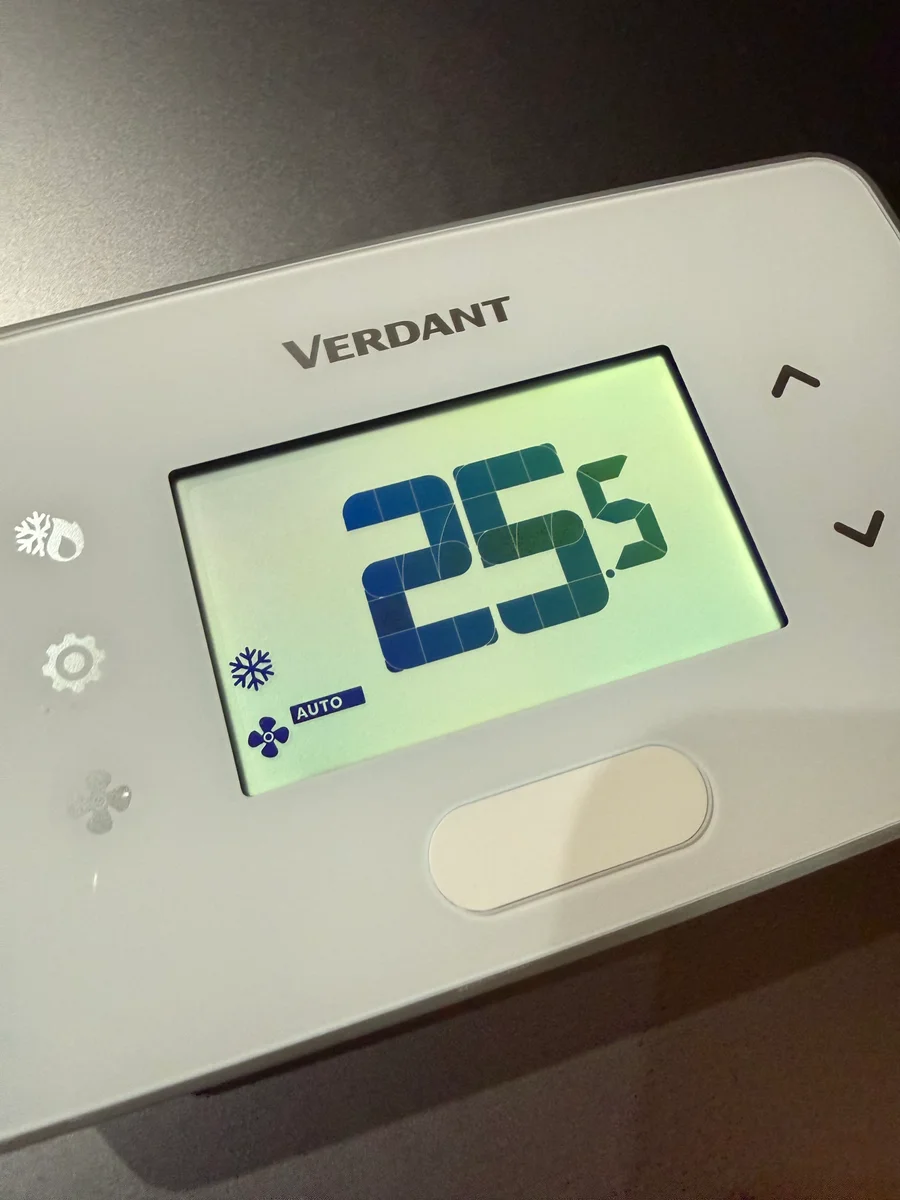
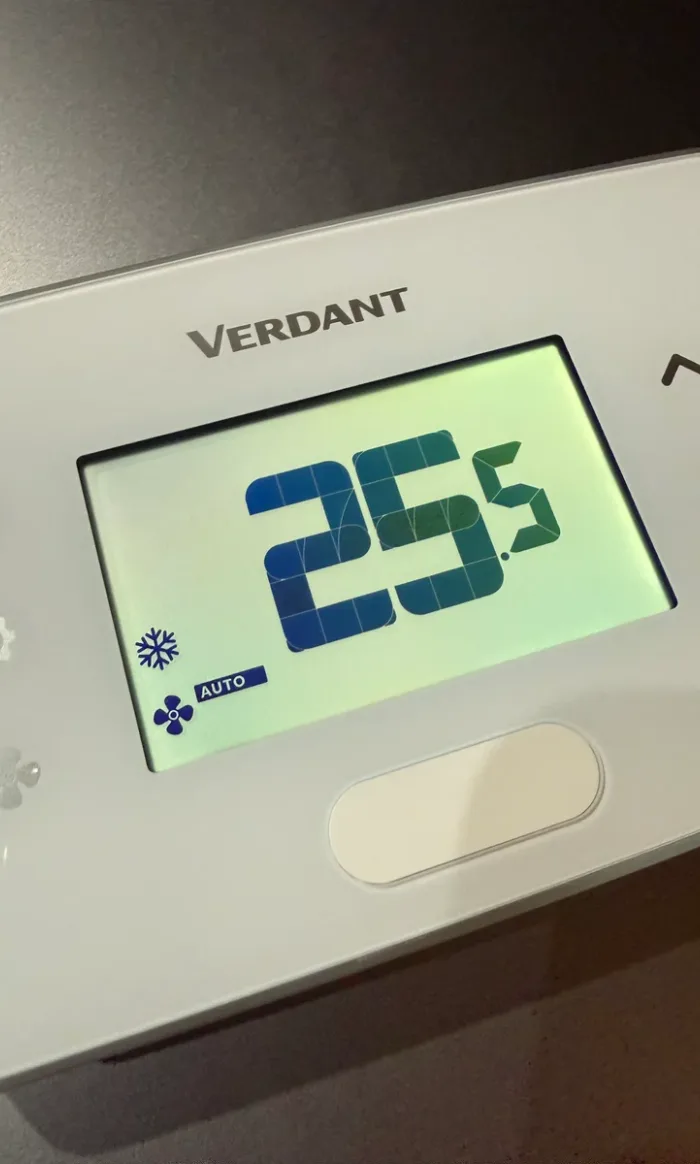
fix(verdant): crop view photos to segment display frame
Sketch, Prototype, and Product previews now use 350:582 assets matching
the character glyph frame. Photos fill the stage with object-fit cover
instead of letterboxing inside the segment aspect slot.

diff --git a/styles/verdant-interactive.css b/styles/verdant-interactive.css
@@ -100,13 +100,10 @@
 
 .verdant-interactive__stage-photo {
   display: block;
-  width: auto;
-  height: auto;
-  max-width: 100%;
-  max-height: 100%;
-  object-fit: contain;
-  object-position: center;
-  border-radius: var(--verdant-stage-radius);
+  width: 100%;
+  height: 100%;
+  object-fit: cover;
+  object-position: var(--verdant-photo-position, center);
 }
 
 /* Split layout when the interactive is wide enough (desktop stage or wide container) */
@@ -214,13 +211,6 @@
     width: var(--verdant-stage-w);
     height: var(--verdant-stage-h);
     aspect-ratio: auto;
-  }
-
-  .verdant-interactive__stage-photo {
-    max-width: 112%;
-    max-height: 112%;
-    transform: scale(1.06);
-    transform-origin: center center;
   }
 
   .verdant-selector {

diff --git a/components/VerdantPreviewStage.tsx b/components/VerdantPreviewStage.tsx
@@ -7,6 +7,7 @@ import {
   verdantViewToggle,
   type VerdantSelection,
 } from '@/lib/verdant/characterSelector'
+import type { CSSProperties } from 'react'
 
 type Props = {
   selection: VerdantSelection
@@ -17,12 +18,19 @@ export function VerdantPreviewStage({ selection }: Props) {
   const view =
     selection.kind === 'character' ? null : verdantViewToggle(selection.kind)
 
+  const photoStyle = view
+    ? ({
+        '--verdant-photo-position': view.objectPosition,
+      } as CSSProperties)
+    : undefined
+
   return (
     <div
       className="verdant-interactive__glyph-stage"
       aria-live="polite"
       aria-label={stageAriaLabel(selection)}
       data-preview={kind}
+      style={photoStyle}
     >
       {selection.kind === 'character' ? (
         <VerdantCharacterSvg

diff --git a/lib/verdant/characterSelector.ts b/lib/verdant/characterSelector.ts
@@ -72,26 +72,30 @@ export const VERDANT_VIEW_TOGGLES = [
   {
     kind: 'sketch',
     label: 'Sketch',
-    src: '/images/Segment_Drawing.jpeg',
+    src: '/images/verdant-sketch-frame.webp',
     alt: 'Verdant custom segment character set sketch',
+    objectPosition: 'center',
   },
   {
     kind: 'prototype',
     label: 'Prototype',
-    src: '/images/hw-verdant.jpg',
+    src: '/images/verdant-prototype-frame.webp',
     alt: 'Verdant segment display on PCB prototype',
+    objectPosition: 'center',
   },
   {
     kind: 'product',
     label: 'Product',
     src: '/images/verdant-product.webp',
     alt: 'Finished Verdant thermostat product',
+    objectPosition: 'center',
   },
 ] as const satisfies ReadonlyArray<{
   kind: VerdantViewKind
   label: string
   src: string
   alt: string
+  objectPosition: string
 }>
 
 export const VERDANT_DEFAULT_SELECTION: VerdantSelection = {

diff --git a/docs/HARDWARE_POLISH_CHECKLIST.md b/docs/HARDWARE_POLISH_CHECKLIST.md
@@ -64,7 +64,7 @@ Use this when auditing **Hardware** first, then copy pass/fail notes to Mobile, 
 - [x] Keyboard + character SVG (flex-wrap keypad; themed segment cache)
 - [x] Dark mode character/theme colors (`--verdant-label` on `.chapter-slide--verdant`)
 - [x] Container queries at 400px split / 340px & 399px stage scale (verify in browser)
-- [x] Sketch/Prototype photos in segment-aspect frame; assets `Segment_Drawing.jpeg`, `hw-verdant.jpg`
+- [x] Sketch/Prototype/Product photos in segment-aspect frame (350:582); framed assets `verdant-*-frame.webp`, `verdant-product.webp`
 - [x] Mobile: copy no longer overlaps keypad (`mobile-chapter-viewport.css` verdant rules)
 - [ ] Manual pass: side-by-side desktop, resize narrow→wide, Sketch/Prototype/character toggles
 